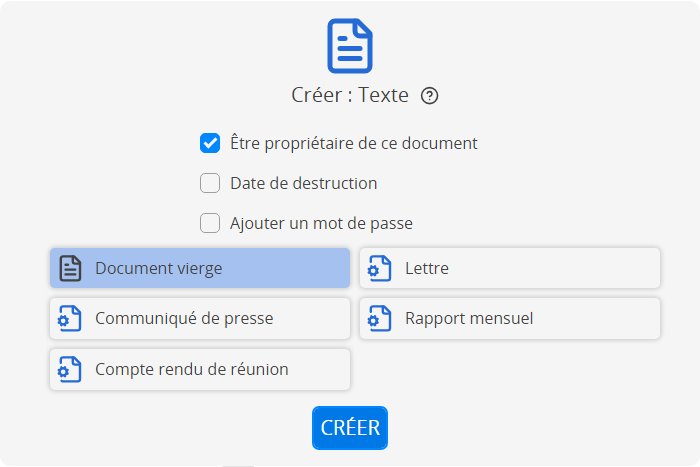
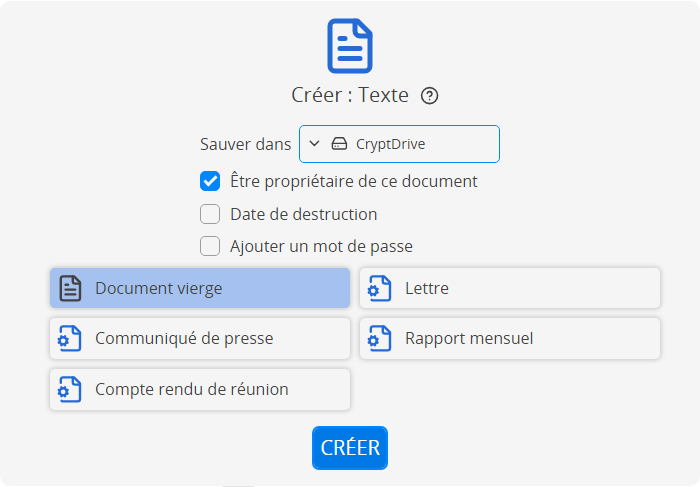
Add french ss and remove admonition (#154)

Changed region(s): [[0.06, 0.03, 0.72, 0.8394], [0.51, 0.6595, 0.78, 0.7495], [0.45, 0.8694, 0.57, 0.9593]]

diff --git a/user_guide/apps/general.rst b/user_guide/apps/general.rst
@@ -26,17 +26,11 @@ created.
 
 -  **Store in**: Choose where to store the new document:
 
-   -  **CryptDrive** (default): Store the document in your CryptDrive. If it is created as an owned document, you are its only initial :ref:`owner <owners>`.
+   -  **CryptDrive** (default): Storing an owned document in your CryptDrive makes you its only initial :ref:`owner <owners>`.
 
-   -  **Team**: Store the document in a :ref:`team <teams>` drive.
-
-      .. attention::
-
-         Creating an owned document in your team's drive will give ownership to the team.
+   -  **Team**: Creating an owned document in your :ref:`team's <teams>` drive will give ownership to the team.
 
    -  **Do not store**: Do not add the document to any drive. This option does not guarantee access if the edit/author link is lost. If the document is not stored in any drive, it is destroyed from the database after 90 days of inactivity (the length of this delay can be set by the service administrators).
-
--  **Owned document**: Create the new document as :ref:`owner <owners>`. If the document is created without an owner this setting cannot be modified.
 
 -  **Expiring document**: Specify an expiry date after which the document will be destroyed. This setting cannot be modified after the document is created.
 
